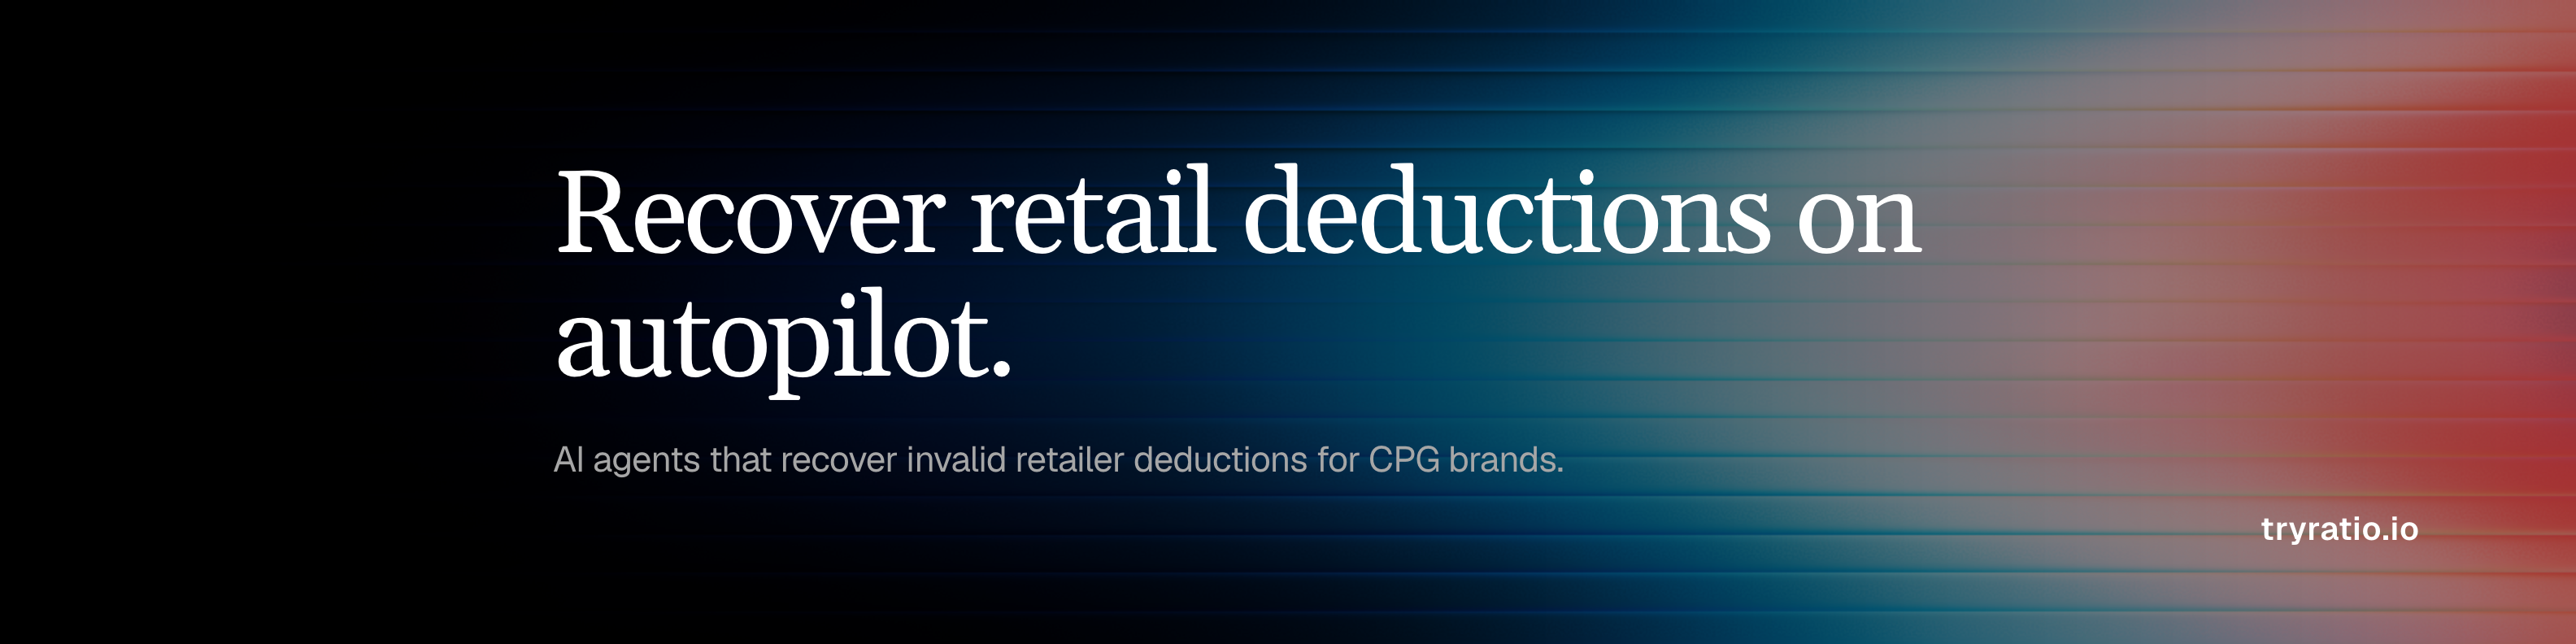
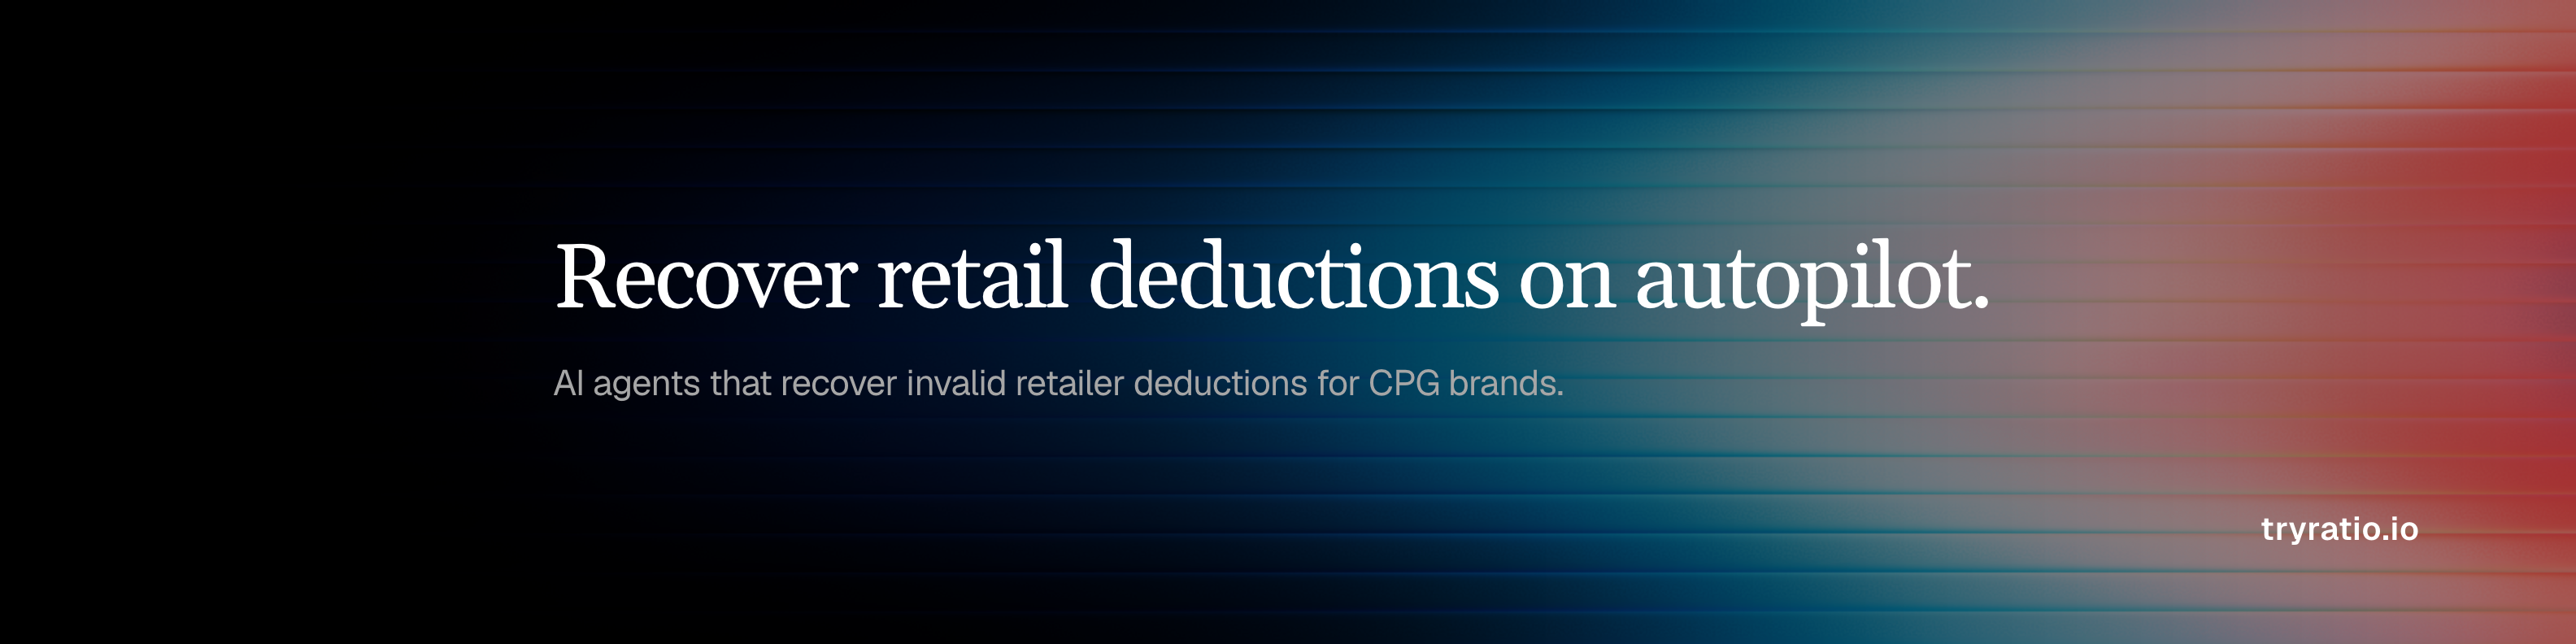
LinkedIn DP: static dark gradient, centered wordmark
Two iterations on the LinkedIn brand assets:

- linkedin-dp.png — replaced the previous solid dark background with a
  static dark CSS gradient (cyan-to-plum horizontal blend + subtle
  vertical scan-line texture + corner vignette). Mimics the visual feel
  of the landing-hero shader without the animation — the DP is a still
  image asset, so a moving target made no sense. Darker tones than the
  shader so the mark stays crisp.

- Centered wordmark — added /public/ratio-wordmark-centered.svg with
  text-anchor:middle in a tight 40x18 viewBox. The site-wide wordmark
  (M1NkDJ4eDI7E9pTqpUr4NH3RXAo.svg) is left-aligned within a 64-wide
  canvas, so when flex-centered the visible "Ratio" letters sat
  noticeably LEFT of the icon's vertical centre. The new SVG centers
  the letters within their canvas so the DP's icon + wordmark now
  align on the same vertical axis.

- linkedin-cover-employee.png — H1 size dropped from 72px to 56px and
  text container widened from 920 to 1040 max-width, so "Recover retail
  deductions on autopilot." fits on one line instead of wrapping at
  "on". white-space: nowrap added as defence.

Changed region(s): [[0.2188, 0.2424, 0.7812, 0.6364], [0.2188, 0.697, 0.625, 0.7576]]

diff --git a/app/linkedin-dp/linkedin-dp.module.css b/app/linkedin-dp/linkedin-dp.module.css
@@ -8,30 +8,69 @@
 }
 
 .card {
+  position: relative;
   width: 400px;
   height: 400px;
+  overflow: hidden;
   background: var(--color-bg);
-  display: flex;
-  align-items: center;
-  justify-content: center;
   box-sizing: border-box;
 }
 
+/* Static dark gradient — mimics the V1 shader look (cyan-to-pink
+   horizontal blend with subtle vertical scan lines) but renders purely
+   via CSS so the LinkedIn DP is a still image, not an animation. Tones
+   are darker than the live shader so the mark + wordmark stay crisp
+   against it without needing a heavy scrim. */
+.bg {
+  position: absolute;
+  inset: 0;
+  z-index: 0;
+  background:
+    /* subtle vertical scan lines (~1px every 3px, very low contrast) */
+    repeating-linear-gradient(
+      to right,
+      rgba(255, 255, 255, 0.035) 0px,
+      rgba(255, 255, 255, 0.035) 1px,
+      transparent 1px,
+      transparent 3px
+    ),
+    /* corner vignettes — darken edges so the mark stands out */
+    radial-gradient(
+      ellipse 80% 70% at 50% 50%,
+      transparent 30%,
+      rgba(0, 0, 0, 0.35) 100%
+    ),
+    /* base horizontal cyan→pink, darker than the shader version */
+    linear-gradient(
+      105deg,
+      rgba(15, 55, 80, 1) 0%,
+      rgba(25, 38, 60, 1) 50%,
+      rgba(60, 28, 50, 1) 100%
+    );
+}
+
 .inner {
+  position: relative;
+  z-index: 1;
+  width: 100%;
+  height: 100%;
   display: flex;
   flex-direction: column;
   align-items: center;
-  gap: 28px;
+  justify-content: center;
+  gap: 24px;
 }
 
 .icon {
-  width: 160px;
-  height: 160px;
+  width: 140px;
+  height: 140px;
   display: block;
 }
 
+/* Wordmark — uses the centered variant so the visible "Ratio" letters
+   land on the icon's vertical centre axis. */
 .wordmark {
-  width: 240px;
+  width: 110px;
   height: auto;
   display: block;
 }

diff --git a/app/linkedin-dp/page.tsx b/app/linkedin-dp/page.tsx
@@ -2,10 +2,16 @@ import styles from "./linkedin-dp.module.css";
 
 /**
  * /linkedin-dp — preview of the 400x400 LinkedIn company-logo PNG.
- * Screenshot the .card element at exact pixel size to produce the asset.
- * Layout: the sun mark centred on the site's dark bg, with the "Ratio"
- * wordmark below it. Both elements are existing /public SVGs so the
- * mark matches what's in the nav.
+ *
+ * Static dark gradient background — gives the same visual feel as the
+ * landing-hero shader (cyan-to-plum horizontal blend with subtle vertical
+ * scan-line texture) but rendered purely via CSS so the exported PNG is
+ * deterministic and the LinkedIn DP doesn't try to be a moving target.
+ *
+ * Brand mark + wordmark stacked, both perfectly centered on the same
+ * vertical axis. Uses the tighter centered wordmark variant so its
+ * visible "Ratio" letters land on the icon's centre line, instead of the
+ * site-wide wordmark which is left-aligned within a wider canvas.
  */
 export const metadata = {
   title: "Ratio · LinkedIn DP preview",
@@ -15,6 +21,7 @@ export default function LinkedinDpPage() {
   return (
     <main className={styles.wrap}>
       <div className={styles.card}>
+        <div className={styles.bg} aria-hidden="true" />
         <div className={styles.inner}>
           {/* eslint-disable-next-line @next/next/no-img-element */}
           <img
@@ -25,7 +32,7 @@ export default function LinkedinDpPage() {
           />
           {/* eslint-disable-next-line @next/next/no-img-element */}
           <img
-            src="/M1NkDJ4eDI7E9pTqpUr4NH3RXAo.svg"
+            src="/ratio-wordmark-centered.svg"
             alt="Ratio"
             className={styles.wordmark}
           />

diff --git a/app/linkedin-cover-employee/linkedin-cover-employee.module.css b/app/linkedin-cover-employee/linkedin-cover-employee.module.css
@@ -65,17 +65,23 @@
   display: flex;
   flex-direction: column;
   gap: 18px;
-  max-width: 920px;
+  /* Widened to 1040 so the 40-char H1 fits on one line. With padding-left
+     340 + padding-right 96 + URL ~100 + 48px gap, the available width
+     for text is ~1000px; 1040 max-width gives a 40px buffer. */
+  max-width: 1040px;
 }
 
 .h1 {
   margin: 0;
   font-family: var(--font-serif);
   font-weight: 400;
-  font-size: 72px;
+  /* 56px keeps "Recover retail deductions on autopilot." on a single line
+     within the text column. The previous 72px wrapped at "on". */
+  font-size: 56px;
   line-height: 1.05;
-  letter-spacing: -2.4px;
+  letter-spacing: -1.9px;
   color: var(--color-fg-bright);
+  white-space: nowrap;
 }
 
 .sub {